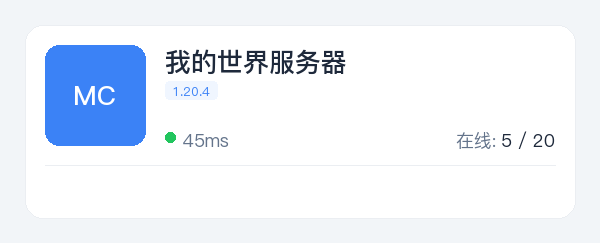
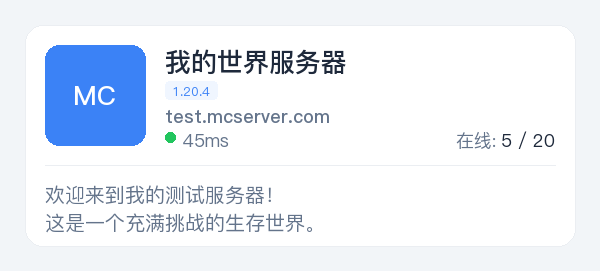
feat: 更新图像生成逻辑，增强对服务器 IP 的支持并修复换行处理

diff --git a/script/get_img.py b/script/get_img.py
@@ -109,7 +109,7 @@ async def generate_server_info_image(
     f_main = await load_font("PingFang Medium", 18)
     f_motd = await load_font("PingFang Medium", 20)
     f_motd_bold = await load_font("PingFang Bold", 20)
-    f_ip_bold = await load_font("PingFang Bold", 14) # IP专用加粗
+    f_ip_bold = await load_font("PingFang Bold", 18) # IP专用加粗
     f_tiny = await load_font("PingFang Medium", 13)
 
     # --- 预计算阶段 ---
@@ -126,22 +126,24 @@ async def generate_server_info_image(
     all_segments = parse_minecraft_string(display_motd, default_color=C_SUB)
     
     lines_segments: List[List[TextSegment]] = []
-    current_line_segments = []
-    current_w = 0
     
     for seg in all_segments:
         # 对每一个片段处理可能的长文本换行
         words = seg.text # 这里不按空格分，MC按字符宽度
         active_font = f_motd_bold if seg.is_bold else f_motd
         
+        current_line_segments = []
+        current_w = 0
         current_segment_text = ""
+        
         for char in words:
             # 处理用户输入中的显式换行符，避免 textlength 无法处理多行文本
             if char == '\n':
                 if current_segment_text:
                     current_line_segments.append(TextSegment(current_segment_text, seg.color, seg.is_bold))
                     current_segment_text = ""
-                lines_segments.append(current_line_segments)
+                if current_line_segments:
+                    lines_segments.append(current_line_segments)
                 current_line_segments = []
                 current_w = 0
                 continue
@@ -151,8 +153,21 @@ async def generate_server_info_image(
                 # 换行
                 if current_segment_text:
                     current_line_segments.append(TextSegment(current_segment_text, seg.color, seg.is_bold))
-                lines_segments.append(current_line_segments)
+                if current_line_segments:
+                    lines_segments.append(current_line_segments)
                 # 重置当前行
+                current_line_segments = []
+                current_w = 0
+                current_segment_text = ""
+            
+            current_segment_text += char
+            current_w += char_w
+        
+        # 处理片段末尾剩余内容
+        if current_segment_text:
+            current_line_segments.append(TextSegment(current_segment_text, seg.color, seg.is_bold))
+        if current_line_segments:
+            lines_segments.append(current_line_segments)
 
     # 动态计算高度
     header_h = icon_size + card_inner * 2
@@ -194,7 +209,7 @@ async def generate_server_info_image(
     
     # 绘制 IP (加粗)
     if server_ip:
-        draw.text((tx, iy + 62), server_ip, font=f_ip_bold, fill=C_SUB)
+        draw.text((tx, iy + 58), server_ip, font=f_ip_bold, fill=C_SUB)
 
     # 状态行
     status_y = iy + 82

diff --git a/script/test_img.py b/script/test_img.py
@@ -19,7 +19,8 @@ async def test_basic_motd():
         plays_max=20,
         plays_online=5,
         server_version="1.20.4",
-        icon_base64=None
+        icon_base64=None,
+        server_ip="test.mcserver.com"
     )
 
     image_data = base64.b64decode(result)
@@ -43,7 +44,8 @@ async def test_colored_motd():
         plays_max=100,
         plays_online=12,
         server_version="1.21.1",
-        icon_base64=None
+        icon_base64=None,
+        server_ip="color.mcserver.com"
     )
     
     image_data = base64.b64decode(result)
@@ -67,7 +69,8 @@ async def test_high_ping_red():
         plays_max=50,
         plays_online=3,
         server_version="1.20.2",
-        icon_base64=None
+        icon_base64=None,
+        server_ip="ping.mcserver.com"
     )
     
     image_data = base64.b64decode(result)
@@ -91,7 +94,8 @@ async def test_bold_motd():
         plays_max=20,
         plays_online=8,
         server_version="1.20.4",
-        icon_base64=None
+        icon_base64=None,
+        server_ip="bold.mcserver.com"
     )
     
     image_data = base64.b64decode(result)
@@ -115,7 +119,8 @@ async def test_explicit_newline_bug():
         plays_max=30,
         plays_online=7,
         server_version="1.22.0",
-        icon_base64=None
+        icon_base64=None,
+        server_ip="test.mcserver.com"
     )
     
     image_data = base64.b64decode(result)
